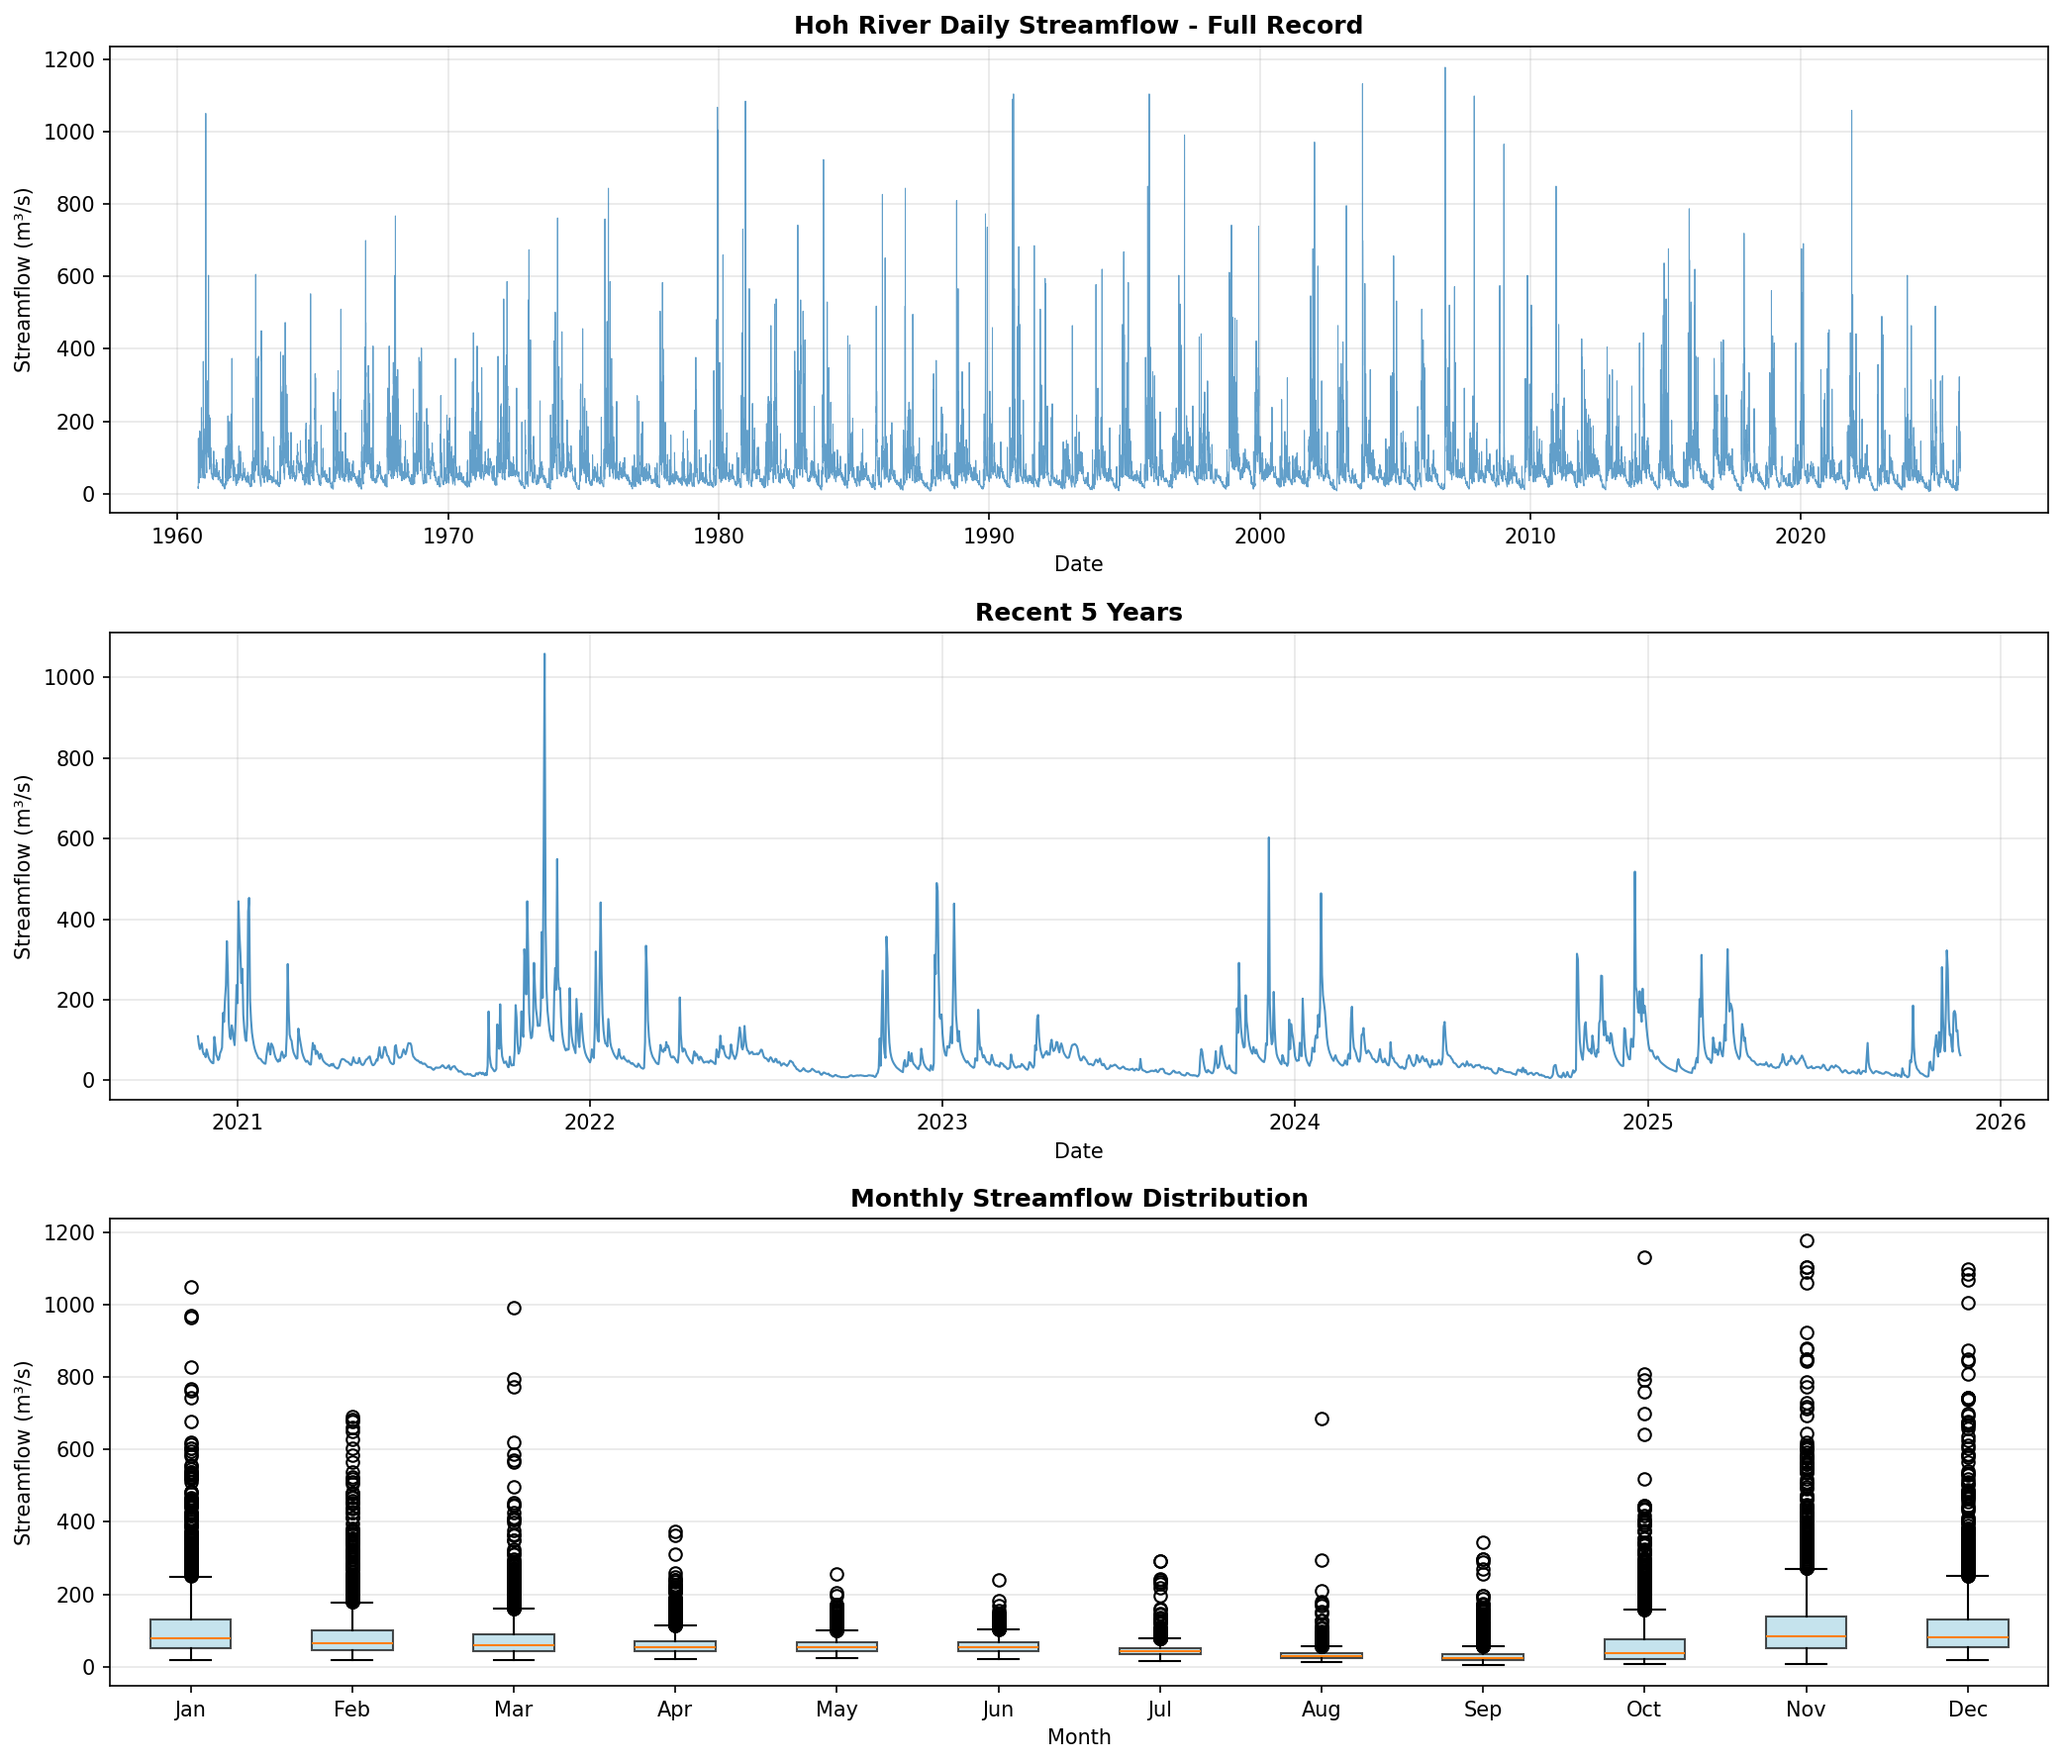
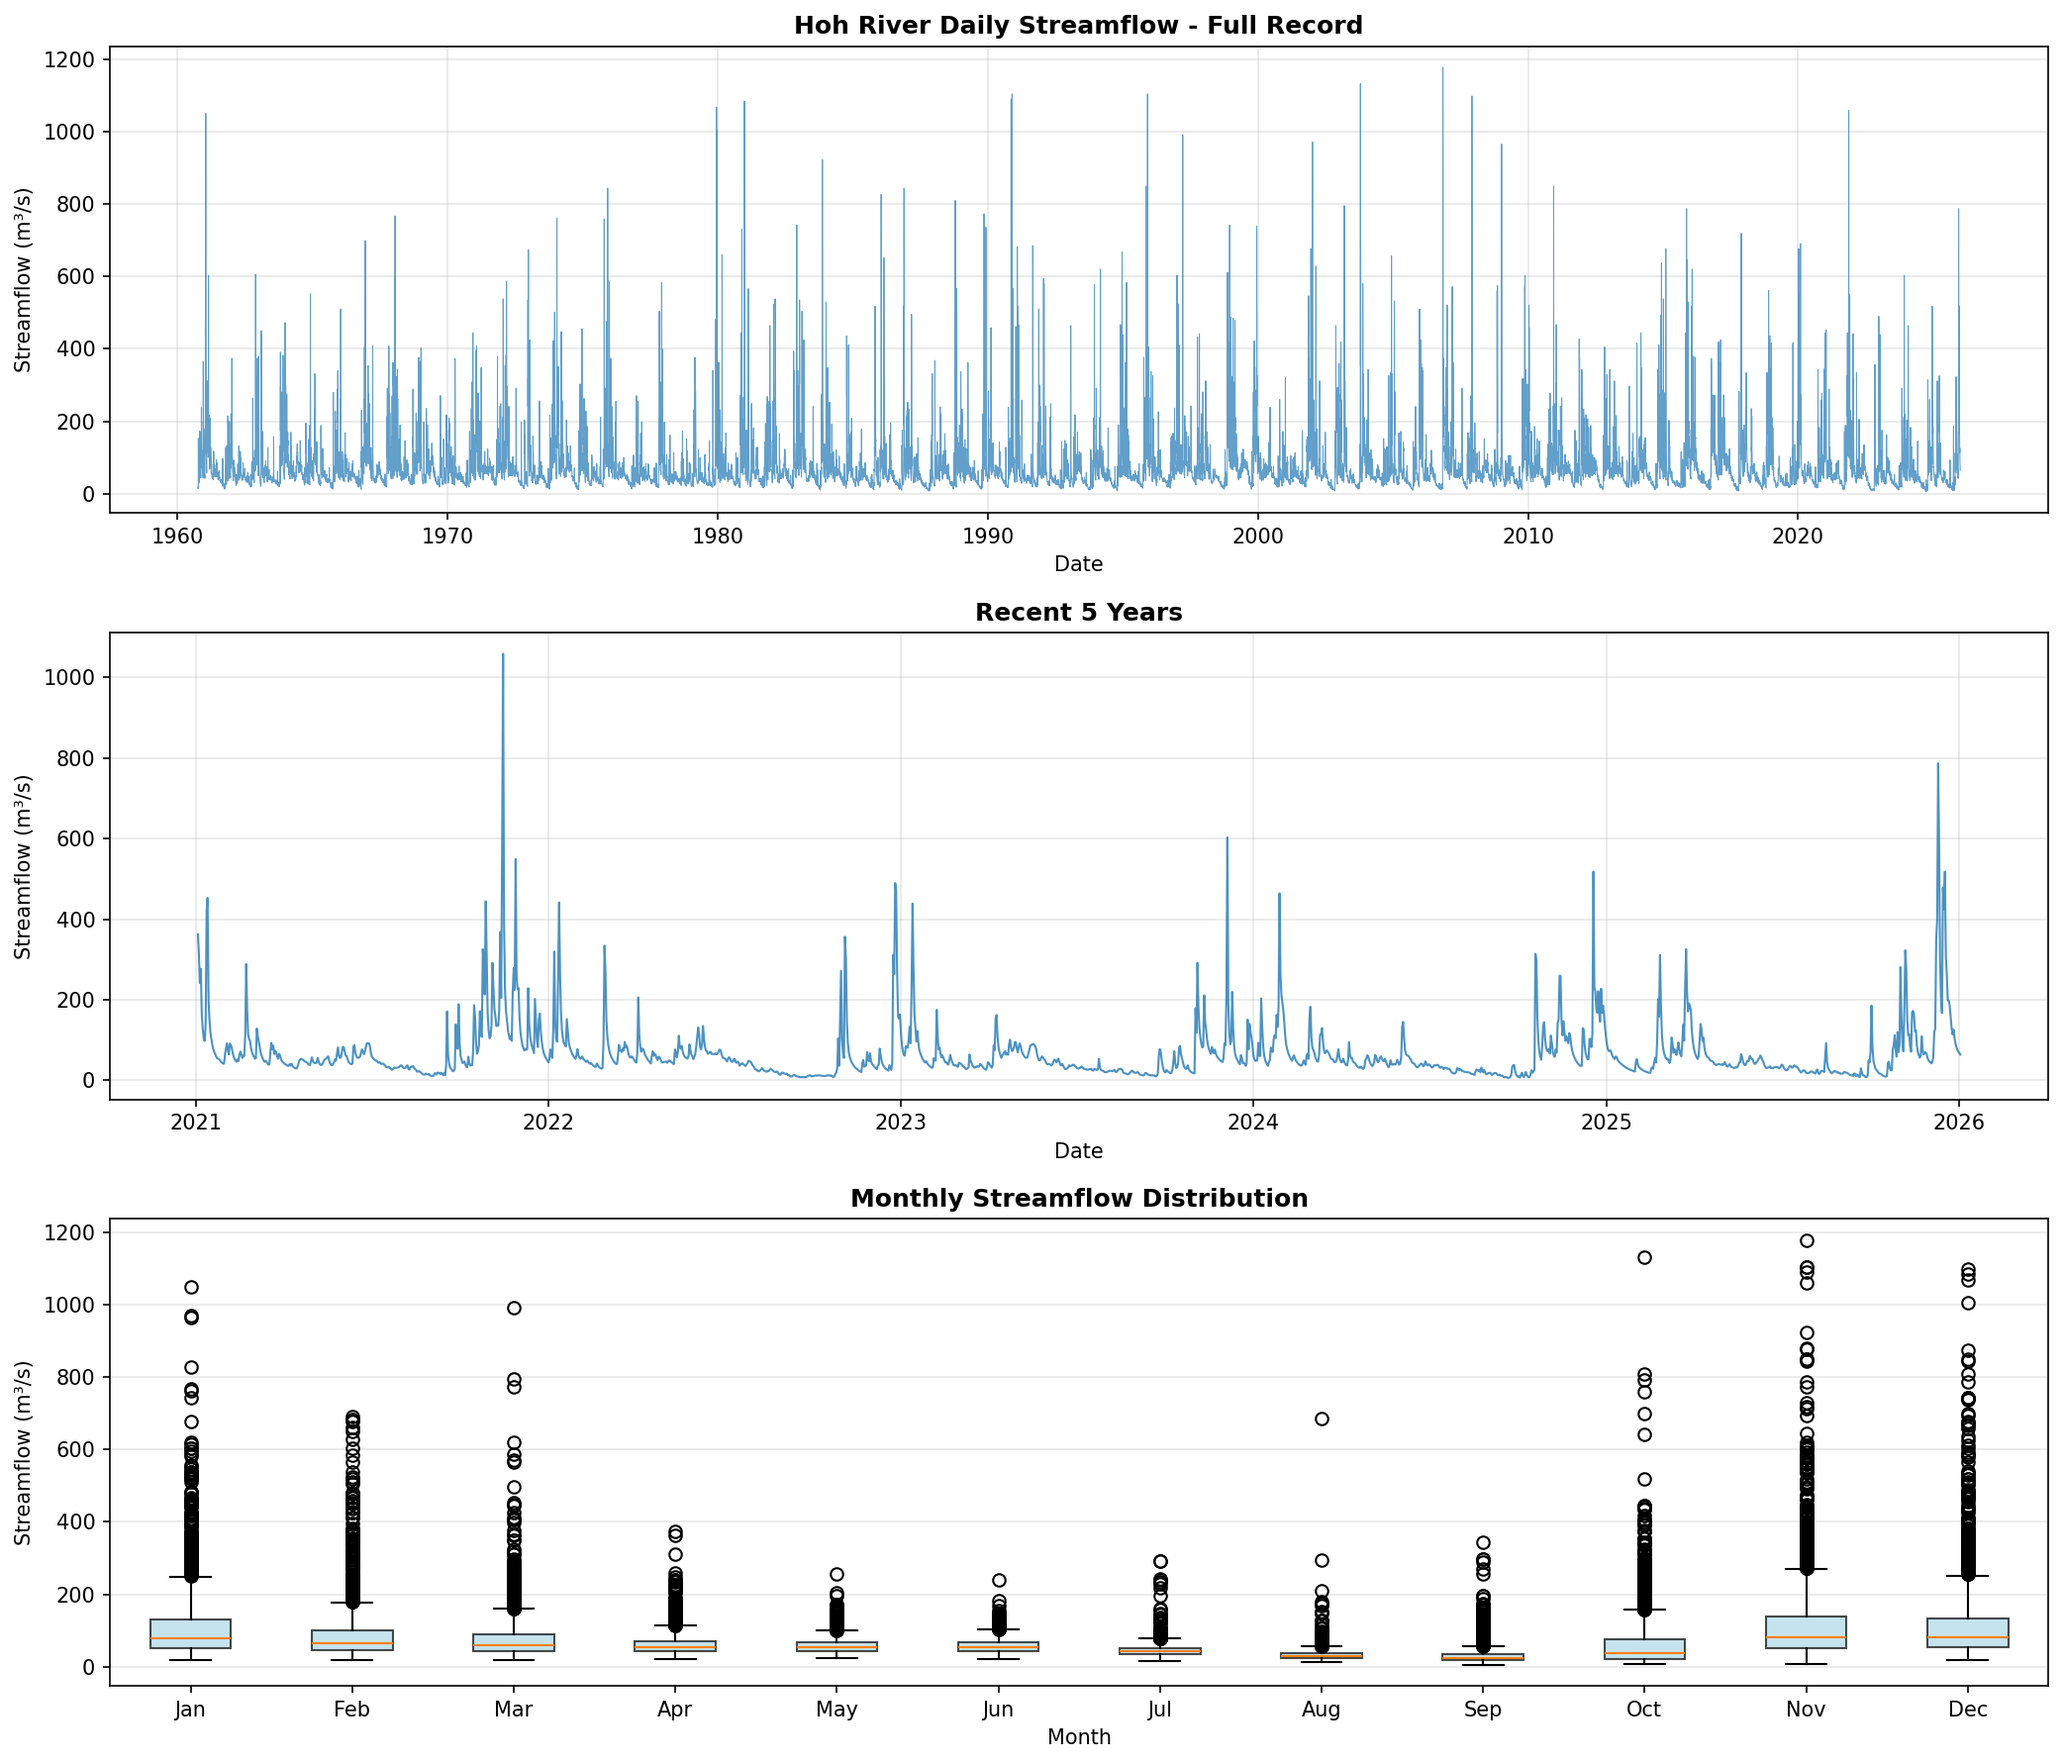
get data thru 2025, use same end dates for both rivers

Changed region(s): [[0.1248, 0.0618, 0.9669, 0.3088], [0.0936, 0.4941, 0.9669, 0.6485]]

diff --git a/src/download_hoh_gridmet_elevation_bands.py b/src/download_hoh_gridmet_elevation_bands.py
@@ -65,7 +65,7 @@ def load_watershed():
           f"lat [{gdf.total_bounds[1]:.4f}, {gdf.total_bounds[3]:.4f}]")
     return gdf
 
-def download_gridmet_opendap(start_date='1990-01-01', end_date='2025-01-01'):
+def download_gridmet_opendap(start_date='1990-01-01', end_date='2025-12-31'):
     """
     Download gridMET data via OPeNDAP for Hoh River watershed.
     """
@@ -292,7 +292,7 @@ def main():
     print("="*80)
 
     # Download gridMET data (full historical record)
-    ds = download_gridmet_opendap(start_date='1990-01-01', end_date='2025-01-01')
+    ds = download_gridmet_opendap(start_date='1990-01-01', end_date='2025-12-31')
 
     if ds is None:
         print("\n✗ Failed to download gridMET data")

diff --git a/src/download_hoh_river_data.py b/src/download_hoh_river_data.py
@@ -45,7 +45,7 @@ try:
         sites=SITE_CODE,
         parameterCd=PARAMETER_CODE,
         start='1900-01-01',  # Get all available data
-        end=datetime.now().strftime('%Y-%m-%d')
+        end='2026-01-02'
     )
 
     print(f"✓ Successfully downloaded {len(df)} days of data")

diff --git a/src/download_lamar_river_data.py b/src/download_lamar_river_data.py
@@ -43,7 +43,7 @@ try:
         sites=SITE_CODE,
         parameterCd=PARAMETER_CODE,
         start='1900-01-01',  # Get all available data
-        end=datetime.now().strftime('%Y-%m-%d')
+        end='2025-12-31'
     )
 
     print(f"✓ Successfully downloaded {len(df)} days of data")

diff --git a/src/download_gridmet_elevation_bands.py b/src/download_gridmet_elevation_bands.py
@@ -573,7 +573,7 @@ def main():
 
     # Configuration
     start_date = '1990-01-01'
-    end_date = '2025-01-01'
+    end_date = '2025-12-31'
     output_file = '../data/climate/lamar_gridmet_elevation_bands.csv'
 
     # Create output directory
